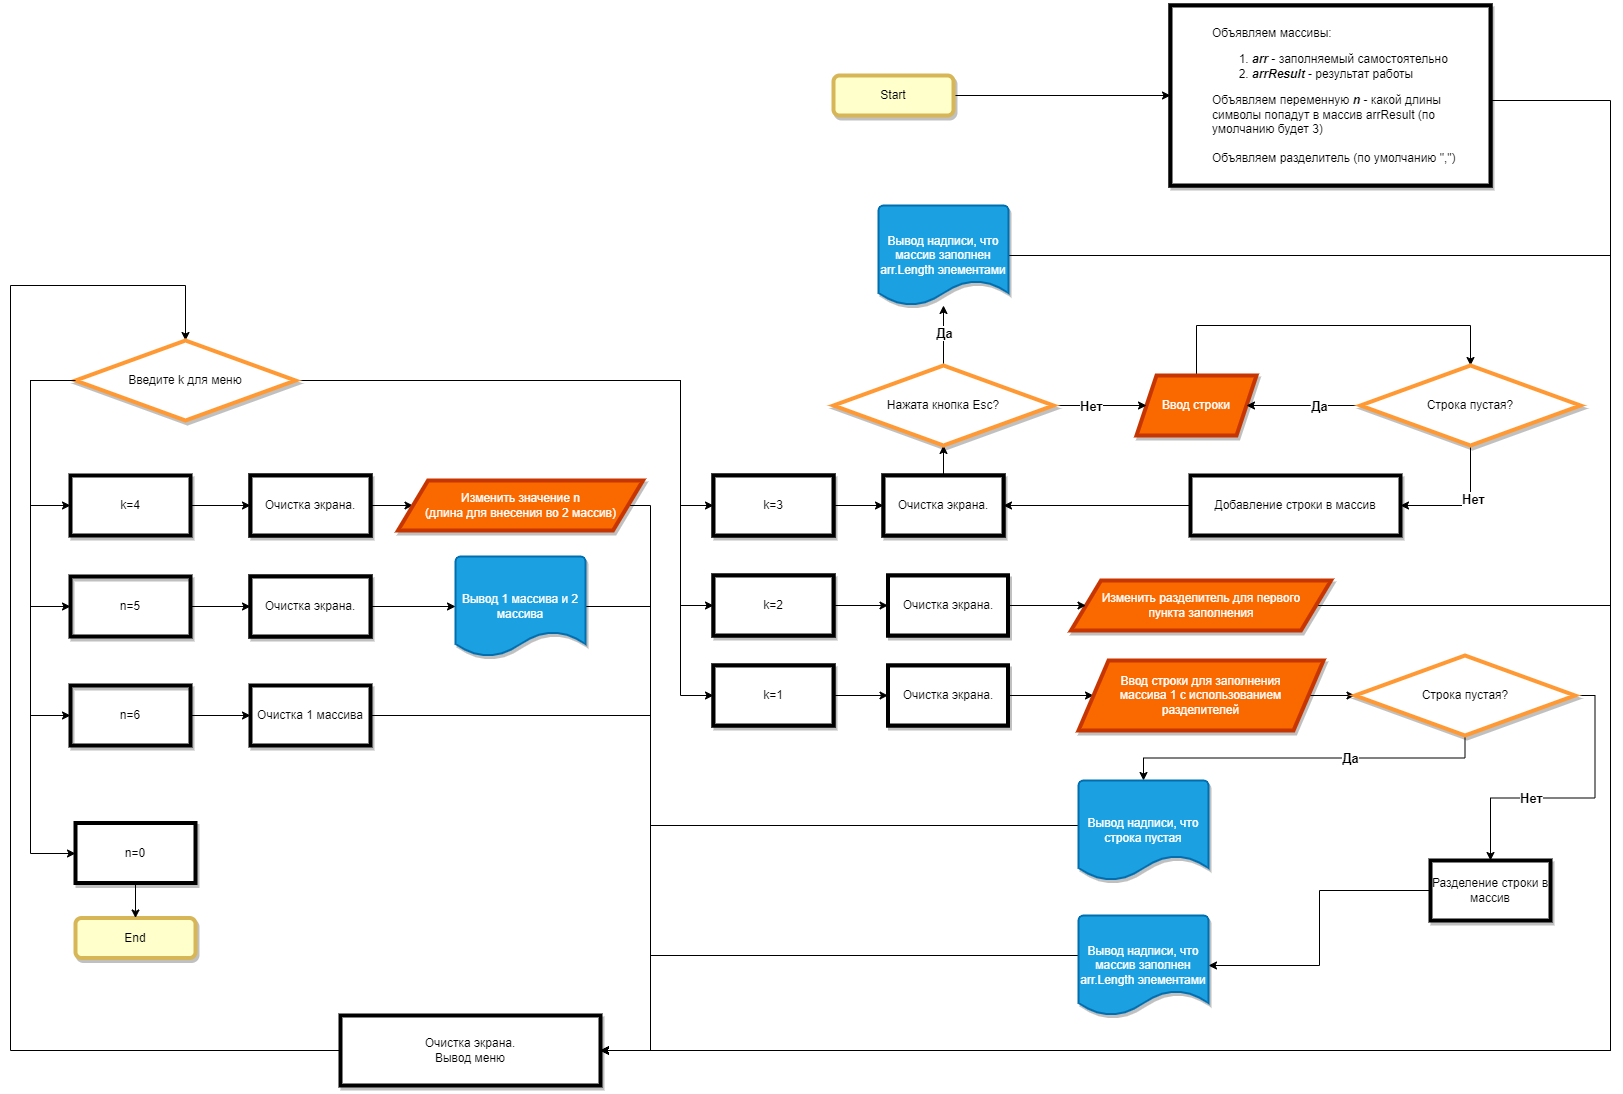
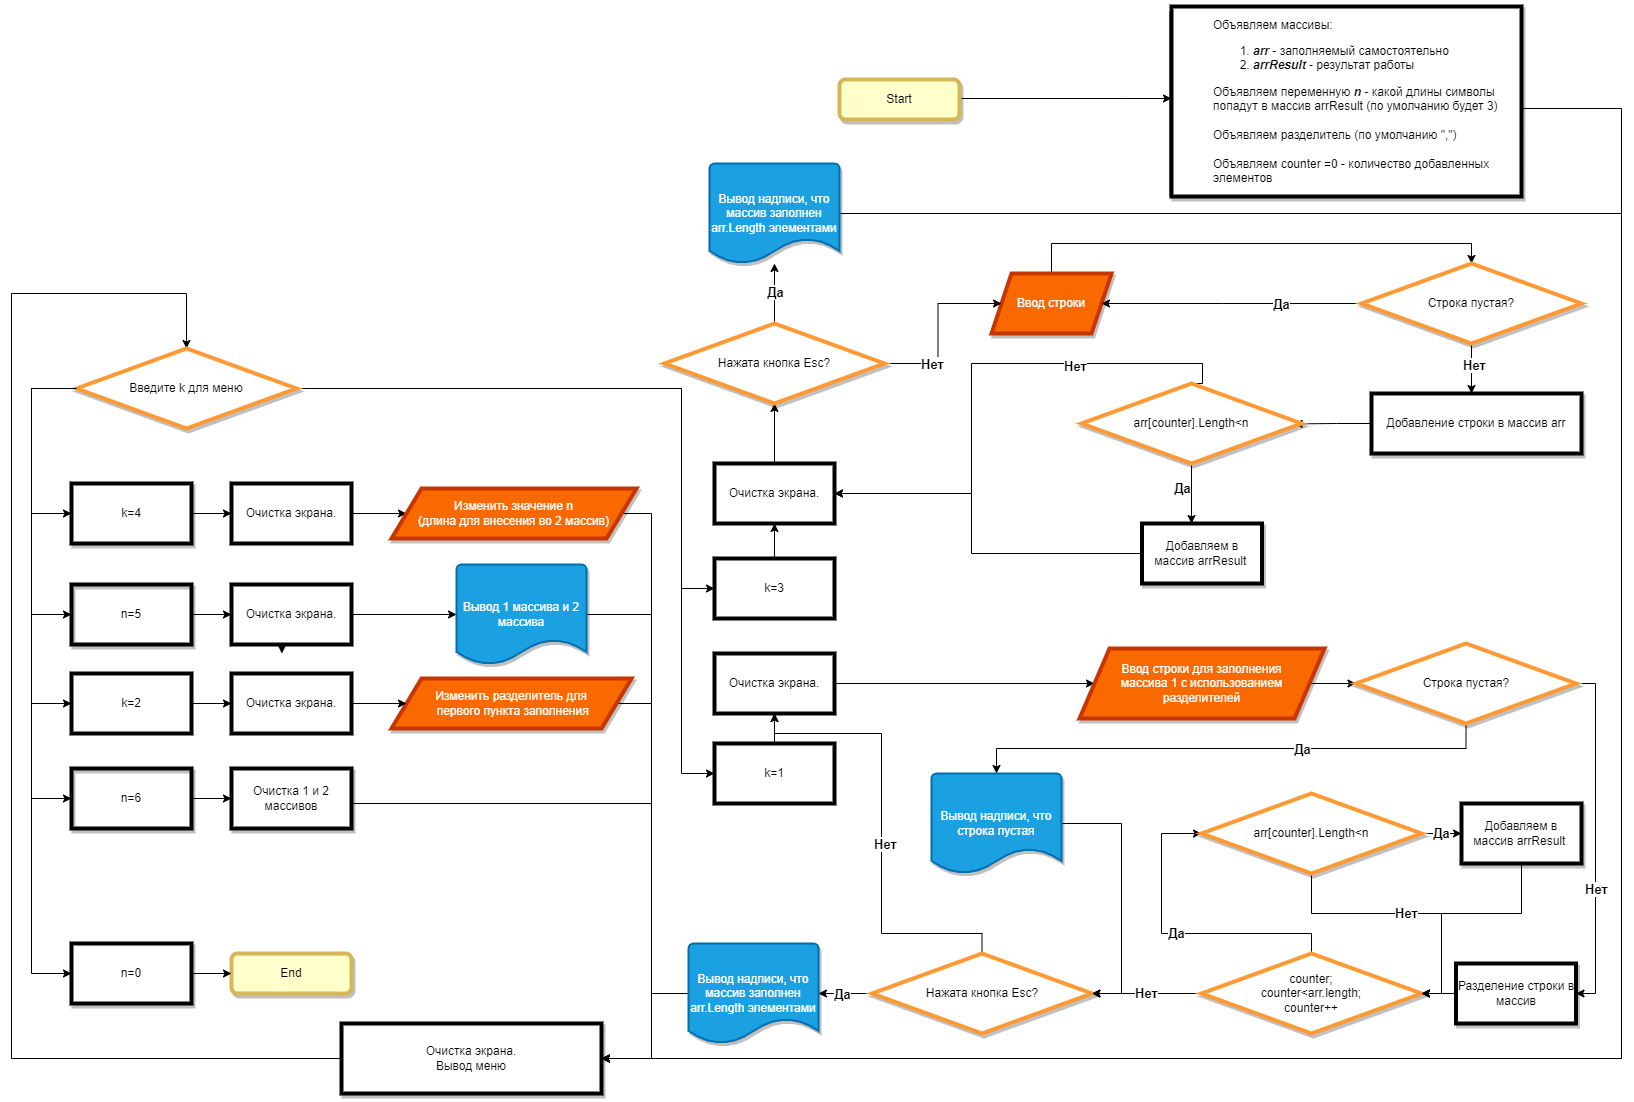
Финальные изменения программы

diff --git a/Program.cs b/Program.cs
@@ -1,36 +1,34 @@
 using System.Text;
-
+using System.Xml.Serialization;
 
 string[] arr = new string[2];
-string[] arrResult = null;
+string[] arrResult = new string[1];
 
-int n = 3;
-string splitter = ",";
+int n = 3; // количество символов, максимальных для внесение во второй массив
+string splitter = ","; // разделитель при внесении данных в массив arr одной строкой
 
-int counter = 0; // количество добавленных элементов в массив
-
-
-
-string c = "";
-bool b = true;
+int counter = 0; // количество добавленных элементов в массив arr
+int counterResult = 0; // количество добавленных элементов в массив arrResult
 
 
-
-//Меню программы
+// Меню программы
 void PrintMainMenu()
 {
     while (true)
     {
         Console.Clear();
         Console.WriteLine($"В 1 массиве содержится {counter} элеметов");
+        Console.WriteLine(new string('_', Console.WindowWidth));
+        Console.WriteLine();
         Console.WriteLine(@$"Выберете необходимое действие :
-                1 – Заполнить 1 массив строкой с использованрием разделителя (Старые значения не удаляются, а дополняются)
-                2 – Изменить разделитель для первого пункта заполнения  (сейчас - '{splitter}')
-                3 – Заполнить 1 массив по 1 элементу (Старые значения не удаляются, а дополняются)
-                4 – Изменить значение n - длины строк заполняющих второй массив (сейчас {n})
-                5 – Вывод массивов на экран
-                6 - Очистка массива
-                0 - Выход из программы");;
+             1 – Заполнить 1 массив строкой с использованрием разделителя (Старые значения не удаляются, а дополняются)
+             2 – Изменить разделитель для первого пункта заполнения  (сейчас - '{splitter}')
+             3 – Заполнить 1 массив по 1 элементу (Старые значения не удаляются, а дополняются)
+             4 – Изменить значение n - длины строк заполняющих второй массив (сейчас {n}). При изменении 1 и второй массив будут отчищены.
+             5 – Вывод массивов на экран
+             6 - Очистка массива
+             0 - Выход из программы");
+        Console.WriteLine(new string('_', Console.WindowWidth));
         switch (char.ToLower(Console.ReadKey(true).KeyChar))
         {
             case '1': { AddMultiDataInOneLineToArray(); break; }
@@ -43,9 +41,6 @@ void PrintMainMenu()
         }
     }
 }
-
-
-
 
 // ввод строки 
 // атрибут result - вводимая строка. Передается с модификатором out
@@ -103,40 +98,163 @@ void AddToArray(ref string[] arr, string value, int counter)
     arr[counter] = value;
 }
 
+// Добавляет строку data в массив arr и удовлетворяющих условию длина строки <= n в массив arrResult
+// атрибут data - строка для добавления в массивы
+void AddToBothArrays(string data)
+{
+    AddToArray(ref arr, data, counter);
+
+    if (arr[counter].Length <= n)
+    {
+        AddToArray(ref arrResult, arr[counter], counterResult);
+        counterResult++;
+    }
+    counter++;
+}
+
+// Разбиение входящей строки по splitter
+// атрибут data - строка для разделения
+// возвращает массив строк - результат разделения
+string[] SplitData(string data)
+{
+    return data.Split(splitter, StringSplitOptions.RemoveEmptyEntries);
+}
+
+// Ввод строки, разбиение по сплитеру  непустой входной строки, добавление результатов разделения в массив arr  и удовлетворяющих условию длина строки <=n в массив arrResult. Выход осуществляется по нажатию клавиши Esc.
+void AddMultiDataInOneLineToArray()
+{
+    string temp;
+    bool b = true;
+    while (b)
+    {
+        Console.Clear();
+        Console.WriteLine($"Введите строку, которая будет разбита по разделителю (сейчас разделитель - '{splitter}') и добавлена в первый массив \n ВНИМАНИЕ: Учтите, что пробел это тоже сивол, поэтому ',' и ', ' 'это разные разделители. \n Для отмены ввода нажмите клавишу Esc");
+
+        b = GetOrEscape(out temp);
+        if (b)
+        {
+            if (temp != null && !temp.Equals(""))
+            {
+                var buff = SplitData(temp);
+
+                foreach (string i in buff)
+                {
+                    AddToBothArrays(i);
+                }
+            }
+            else
+            {
+                Console.WriteLine("Строка не должна быть пустой. \n Для продолжение нажмите любую клавишу.");
+                Console.ReadKey();
+            }
+        }
+    }
+}
+
+// Изменение значения переменной splitter. splitter - делитель, по которому будет делиться входная строка в первом пункте меню. 
+void ChangeSplitter()
+{
+    Console.Clear();
+
+    Console.WriteLine($"Введитеновый разделитель который будет применяться в 1 пункте меню (сейчас '{splitter}')  \n ВНИМАНИЕ: Учтите, что пробел это тоже сивол, поэтому ',' и ', ' 'это разные разделители. \n Для отмены ввода нажмите клавишу Esc");
+
+    if (GetOrEscape(out string temp))
+    {
+        if (temp != null && !temp.Equals("")) //если ввел не пустую строку
+        {
+            splitter = temp;
+        }
+        else
+        {
+            Console.WriteLine("Разделитель не должен быть пустым \n Для возврата в меню нажмите любую клавишу.");
+            Console.ReadKey();
+        }
+    }
+}
+
+// Ввод и добавление непустой входной строки в массив arr и удовлетворяющих условию длина строки <= n в массив arrResult. Выход осуществляется по нажатию клавиши Esc.
+void AddOneDataToArray()
+{
+    string temp;
+    bool b = true;
+    while (b)
+    {
+        Console.Clear();
+        Console.WriteLine($"Введите строку, которая будет добавлена в первый массив  \n Для отмены ввода нажмите клавишу Esc");
+
+        b = GetOrEscape(out temp);
+        if (b)
+        {
+            if (temp != null && !temp.Equals(""))
+            {
+                AddToBothArrays(temp);
+            }
+            else
+            {
+                Console.WriteLine("Строка не должна быть пустой. \n Для продолжение нажмите любую клавишу.");
+                Console.ReadKey();
+            }
+        }
+    }
+}
+
+// Изменение значения переменной n. n - максимальная длина строк, добавляемых во массив arrResult.
+void ChangeNValue()
+{
+    Console.Clear();
+
+    Console.WriteLine($"Введите значение n - максимальная длина строки добавляемая во второй массив (сейчас n = {n}) \n При изменении 1 и второй массив будут отчищены. \n Для отмены ввода нажмите клавишу Esc");
+
+    if (GetOrEscape(out string temp))
+    {
+        int temp2 = 0;
+        if (!Int32.TryParse(temp, out temp2)) //если ввел буквы, а не числа
+        {
+            Console.WriteLine("Ввод не является числом. Для возврата в меню нажмите любую клавишу");
+            Console.ReadKey();
+        }
+        else
+        {
+            n = temp2;
+        }
+    }
+}
+
+// Выводит на печать массив строк
+// атрибуты
+// arr - массив для вывода на печать
+// counter - до какого элемента выводить на печать
+void PrintStringArray(string[] arr, int counter)
+{
+    for (int i = 0; i < counter; i++)
+    {
+        Console.Write((i + 1 + "/" + counter).PadRight(10));
+        Console.WriteLine(" || " + arr[i]);
+    }
+}
 
 
+// Вывод обоих массивов в консоль
+void PrintAllArrays()
+{
+    Console.Clear();
+    Console.WriteLine(new string('_', Console.WindowWidth));
+    Console.WriteLine("     Первый массив:");
+    PrintStringArray(arr, counter);
+    Console.WriteLine(new string('_', Console.WindowWidth));
+    Console.WriteLine("     Второй (итоговый) массив:");
+    PrintStringArray(arrResult, counterResult);
+    Console.WriteLine(new string('_', Console.WindowWidth));
+    Console.WriteLine("\n Для возврата в меню нажмите любую клавишу");
+    Console.ReadKey();
+}
 
+// очистка обоих массивов и счетчиков заполненных элементов
 void CleanArray()
 {
     arr = new string[2];
-    counter = 0;
+    arrResult = new string[1];
+    counterResult = counter = 0;
 }
 
-
-
-string[] buff = new string[2];
-Console.WriteLine();
-int count = 0;
-
-while (b)
-{
-    if (buff != null && buff[0] != null)
-    {
-        for (int i = 0; i < count; i++)
-        {
-            Console.WriteLine(i+1 + "/" + count + " || " + buff[i]);
-        }
-    }
-    Console.WriteLine("------------------------------------");
-    Console.WriteLine("Введите число");
-    b = GetOrEscape(out c);
-    Console.Clear();
-    AddToArray(ref buff, c, count);
-
-    count++;
-    Console.Clear();
-}
-
-
-
-Console.ReadKey();
+PrintMainMenu();
